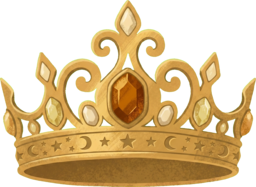
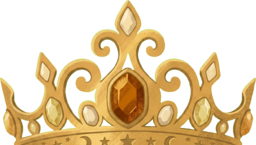
Cosmetics: tuning pass for hats, eyes, neck, and wing anchors
Re-tune every cosmetic's draw params (scale/rotation/offset) so
each one lines up with the raptor silhouette after the wings-
on-top draw flip and per-frame anchor corrections landed.

Headwear: cowboy and top hat tipped further back, pirate tricorn
rotated down to sit level, sombrero tilted hard so the brim
angles off the skull instead of hovering as a flat disc, crown
cropped (in the PNG) to just the jewelled arches + scaled down
so it sits on top of the head rather than encircling it,
wizard-hat PNG swapped in at higher res. "Tiara" renamed to
"Diadem" to match the new art.

Eyes: monocle nudged forward onto the eye (was floating ahead
of the snout); eye patch shrunk + re-centred so the patch
actually covers the eye.

Neck: bandana scaled way down (the sprite is the whole kerchief,
not just the knot), gold chain re-tuned with the pendants
resting on the throat.

Wings: each attachmentPoint moved to the true shoulder pixel on
its (pre-flipped) sprite, paired with a positive-rotation
rather than the old uniform -0.15 rad so the wings splay
outward from the back rather than drooping down. Scales kept
as previous pass; per-wing offsets in legacy.css (follow-up
commit) pin the start-screen preview to the same shoulder.

Dropped: aviators + scarf placeholder entries — no sprites for
them and the shop listings were confusing players.

diff --git a/src/cosmetics.ts b/src/cosmetics.ts
@@ -122,7 +122,7 @@ export const COSMETICS: ReadonlyArray<CosmeticDef> = [
     price: 50,
     spriteKey: "cowboyHat",
     description: "Yeehaw. Fits the desert.",
-    draw: { scale: 0.22, rotation: -0.35, offset: { y: 0.05 } },
+    draw: { scale: 0.22, rotation: -0.38, offset: { x: 0, y: 0.02 } },
   },
   {
     id: "top-hat",
@@ -131,7 +131,7 @@ export const COSMETICS: ReadonlyArray<CosmeticDef> = [
     price: 150,
     spriteKey: "topHat",
     description: "Fancy. Pairs with the bow tie.",
-    draw: { scale: 0.3, rotation: -0.3, offset: { y: 0.05 } },
+    draw: { scale: 0.2, rotation: -0.4, offset: { x: 0, y: 0 } },
   },
   {
     id: "wizard-hat",
@@ -140,7 +140,7 @@ export const COSMETICS: ReadonlyArray<CosmeticDef> = [
     price: 200,
     spriteKey: "wizardHat",
     description: "Pointy and arcane.",
-    draw: { scale: 0.32, rotation: -0.15, offset: { y: 0.04 } },
+    draw: { scale: 0.32, rotation: -0.15, offset: { x: -0.02, y: 0.02 } },
   },
   {
     id: "pirate-tricorn",
@@ -149,11 +149,11 @@ export const COSMETICS: ReadonlyArray<CosmeticDef> = [
     price: 175,
     spriteKey: "pirateTricorn",
     description: "Skull and crossbones, plumed. Pairs with the eye patch.",
-    draw: { scale: 0.26, rotation: 0.02, offset: { x: -0.04, y: 0.06 } },
+    draw: { scale: 0.26, rotation: -0.1, offset: { x: -0.012, y: 0.02 } },
   },
   {
     id: "tiara",
-    name: "Tiara",
+    name: "Diadem",
     slot: "head",
     price: 350,
     spriteKey: "tiara",
@@ -169,7 +169,9 @@ export const COSMETICS: ReadonlyArray<CosmeticDef> = [
     price: 600,
     spriteKey: "crown",
     description: "Gold, jewelled, and unmistakably regal.",
-    draw: { scale: 0.28, rotation: -0.05, offset: { y: 0.08 } },
+    // Sprite was cropped down to just the jewelled arches (no
+    // decorative band) so it sits higher on the skull.
+    draw: { scale: 0.2, rotation: -0.2, offset: { x: -0.0, y: -0.01 } },
   },
   {
     id: "sombrero",
@@ -179,18 +181,12 @@ export const COSMETICS: ReadonlyArray<CosmeticDef> = [
     spriteKey: "sombrero",
     description: "Wide-brimmed desert shade.",
     // Massively wide brim — keep small so it doesn't eclipse
-    // the head, nudged down so the brim sits on the skull.
-    draw: { scale: 0.26, rotation: -0.08, offset: { y: 0.06 } },
+    // the head, tilted hard so the brim angles off rather than
+    // sitting flat as a disc.
+    draw: { scale: 0.26, rotation: -0.5, offset: { x: 0.02, y: 0.03 } },
   },
 
   // ── Shop: eyes ────────────────────────────────────────
-  {
-    id: "aviators",
-    name: "Aviators",
-    slot: "eyes",
-    price: 75,
-    description: "Classic pilot shades.",
-  },
   {
     id: "monocle",
     name: "Monocle",
@@ -198,11 +194,9 @@ export const COSMETICS: ReadonlyArray<CosmeticDef> = [
     price: 100,
     spriteKey: "monocle",
     description: "Distinguished and a little silly.",
-    // Round lens + hanging chain — wants to sit flat at eye level,
-    // not follow the snout angle the slot default uses. Tiny
-    // scale (0.025) and pulled way back toward the eye so the
-    // chain doesn't dangle past the snout tip.
-    draw: { scale: 0.025, rotation: 0, offset: { x: -0.11 } },
+    // Round lens sits at eye level — nudged forward toward the
+    // snout so the lens actually covers the eye.
+    draw: { scale: 0.05, rotation: 0, offset: { x: 0.01, y: -0.01 } },
   },
   {
     id: "eye-patch",
@@ -211,11 +205,9 @@ export const COSMETICS: ReadonlyArray<CosmeticDef> = [
     price: 50,
     spriteKey: "eyePatch",
     description: "Arrr.",
-    // Nudge back from the snout-mid default so the patch sits
-    // squarely over the eye. Rotation omitted so the slot-default
-    // snout-ridge angle kicks in — makes the small leading strap
-    // drape over the snout rather than sticking out flat.
-    draw: { scale: 0.13, offset: { x: -0.08 } },
+    // Centre the patch on the eye — slot-default snout-ridge
+    // rotation drapes the small leading strap over the snout.
+    draw: { scale: 0.08, offset: { x: -0.005, y: 0 } },
   },
 
   // ── Shop: neck ────────────────────────────────────────
@@ -227,10 +219,8 @@ export const COSMETICS: ReadonlyArray<CosmeticDef> = [
     spriteKey: "bandana",
     description: "Outlaw chic — knot tied at the front.",
     // Tied with the knot at the neck; drapes down over the
-    // upper chest. Sized up relative to the bow tie because
-    // the sprite includes the whole kerchief, not just the
-    // knot.
-    draw: { scale: 0.16, rotation: -0.05, offset: { y: 0.04 } },
+    // upper chest.
+    draw: { scale: 0.06, rotation: -0.05, offset: { x: -0.02, y: 0.053 } },
   },
   {
     id: "gold-chain",
@@ -239,32 +229,19 @@ export const COSMETICS: ReadonlyArray<CosmeticDef> = [
     price: 200,
     spriteKey: "goldChain",
     description: "Bejewelled bling to match the coin hoard.",
-    // Cropped to just the pendants + flipped so the back of the
-    // chain doesn't show in front of the neck. Slot default is
-    // 8% of raptor width; the pendant group is wider relative
-    // to the bow tie so we size it down further. Pulled well
-    // down and forward from the neck anchor so the pendants sit
-    // on the upper chest instead of creeping toward the chin.
-    draw: { scale: 0.07, rotation: -0.1, offset: { x: 0.05, y: 0.15 } },
-  },
-  {
-    id: "scarf",
-    name: "Scarf",
-    slot: "neck",
-    price: 100,
-    description: "Streamlined even while running.",
+    // Pendant group sits on the neck/chest — scaled down again
+    // after the last pass felt too chunky, nudged a touch down
+    // and forward so the pendants rest on the throat.
+    draw: { scale: 0.063, rotation: -0.3, offset: { x: -0.03, y: 0.05 } },
   },
 
   // ── Shop: back ────────────────────────────────────────
-  // Wings render behind the raptor body — the back-slot draw
-  // pass in raptor.ts runs before the body blit so the near wing
-  // peeks out around the body rather than overlaying it.
-  // Wings: all pre-flipped so shoulder sits in sprite's right
-  // half. Default back anchor lives at crown-offset (-0.08w, 0.2h);
-  // these per-wing offsets nudge each set up-and-back until the
-  // shoulder lines up with the raptor's actual shoulder. Scales
-  // trimmed down from the earlier sweep so the wings read as
-  // feathered equipment, not a cape swallowing the body.
+  // Wings render on top of the raptor body — the back-slot
+  // draw pass in raptor.ts runs last so the wings overlay the
+  // sprite rather than peeking around it. All wings are
+  // pre-flipped so the shoulder/body sits in the sprite's right
+  // half; per-wing attachmentPoints pin that actual shoulder
+  // pixel to the back anchor.
   {
     id: "angel-wings",
     name: "Angel Wings",
@@ -272,13 +249,13 @@ export const COSMETICS: ReadonlyArray<CosmeticDef> = [
     price: 600,
     spriteKey: "angelWings",
     description: "Feathered, luminous. Halo not included.",
-    // Shoulder joint where the feathers fan out — upper-right of
-    // the (pre-flipped) sprite. Pulled inward (x=0.68) because
-    // the extreme right edge is feather tips, not the bony root.
+    // Shoulder joint where the feathers fan out — centre-right of
+    // the (pre-flipped) sprite.
     draw: {
       scale: 0.6,
-      rotation: -0.15,
-      attachmentPoint: { x: 0.68, y: 0.3 },
+      rotation: 0.5,
+      offset: { x: 0.2, y: 0.09 },
+      attachmentPoint: { x: 0.82, y: 0.45 },
     },
   },
   {
@@ -288,11 +265,12 @@ export const COSMETICS: ReadonlyArray<CosmeticDef> = [
     price: 600,
     spriteKey: "demonWings",
     description: "Boned and membraned. Runic markings optional.",
-    // Horned shoulder bones — upper-left of the sprite as drawn.
+    // Horned shoulder bones converge at top-right of the sprite.
     draw: {
       scale: 0.7,
-      rotation: -0.15,
-      attachmentPoint: { x: 0.28, y: 0.2 },
+      rotation: 0.3,
+      offset: { x: 0.16, y: -0.21 },
+      attachmentPoint: { x: 0.68, y: 0.12 },
     },
   },
   {
@@ -302,12 +280,13 @@ export const COSMETICS: ReadonlyArray<CosmeticDef> = [
     price: 300,
     spriteKey: "butterflyWingsOrange",
     description: "Orange monarch — moons and flowers pattern.",
-    // Thorax where the upper and lower wings meet — around the
-    // middle of the sprite vertically, a touch left of centre.
+    // Thorax where upper and lower wings meet — middle-right of
+    // the sprite.
     draw: {
       scale: 0.55,
-      rotation: -0.15,
-      attachmentPoint: { x: 0.45, y: 0.4 },
+      rotation: 0.4,
+      offset: { x: 0.14, y: -0.02 },
+      attachmentPoint: { x: 0.58, y: 0.45 },
     },
   },
   {
@@ -319,8 +298,9 @@ export const COSMETICS: ReadonlyArray<CosmeticDef> = [
     description: "Deep-blue morpho — speckled and eyespotted.",
     draw: {
       scale: 0.55,
-      rotation: -0.15,
-      attachmentPoint: { x: 0.4, y: 0.45 },
+      rotation: -0.0,
+      offset: { x: 0.1, y: 0.09 },
+      attachmentPoint: { x: 0.5, y: 0.55 },
     },
   },
   {
@@ -333,8 +313,9 @@ export const COSMETICS: ReadonlyArray<CosmeticDef> = [
     // Twilight has the vertical body band on the LEFT edge.
     draw: {
       scale: 0.55,
-      rotation: -0.15,
-      attachmentPoint: { x: 0.17, y: 0.5 },
+      rotation: 0.3,
+      offset: { x: 0.13, y: -0.08 },
+      attachmentPoint: { x: 0.5, y: 0.35 },
     },
   },
 ];
